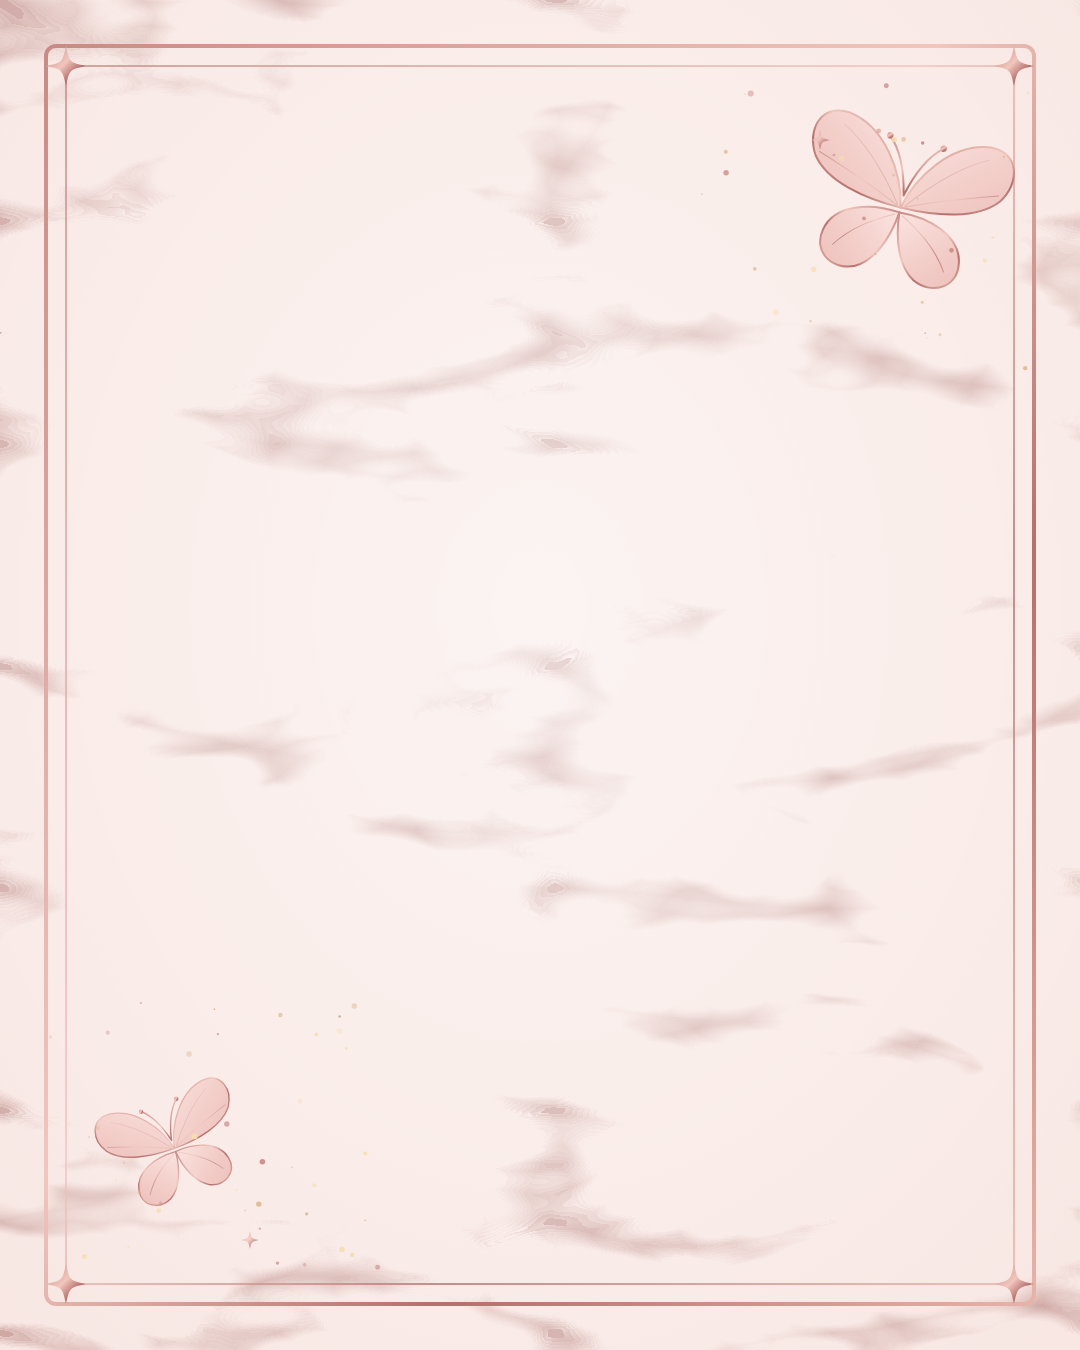
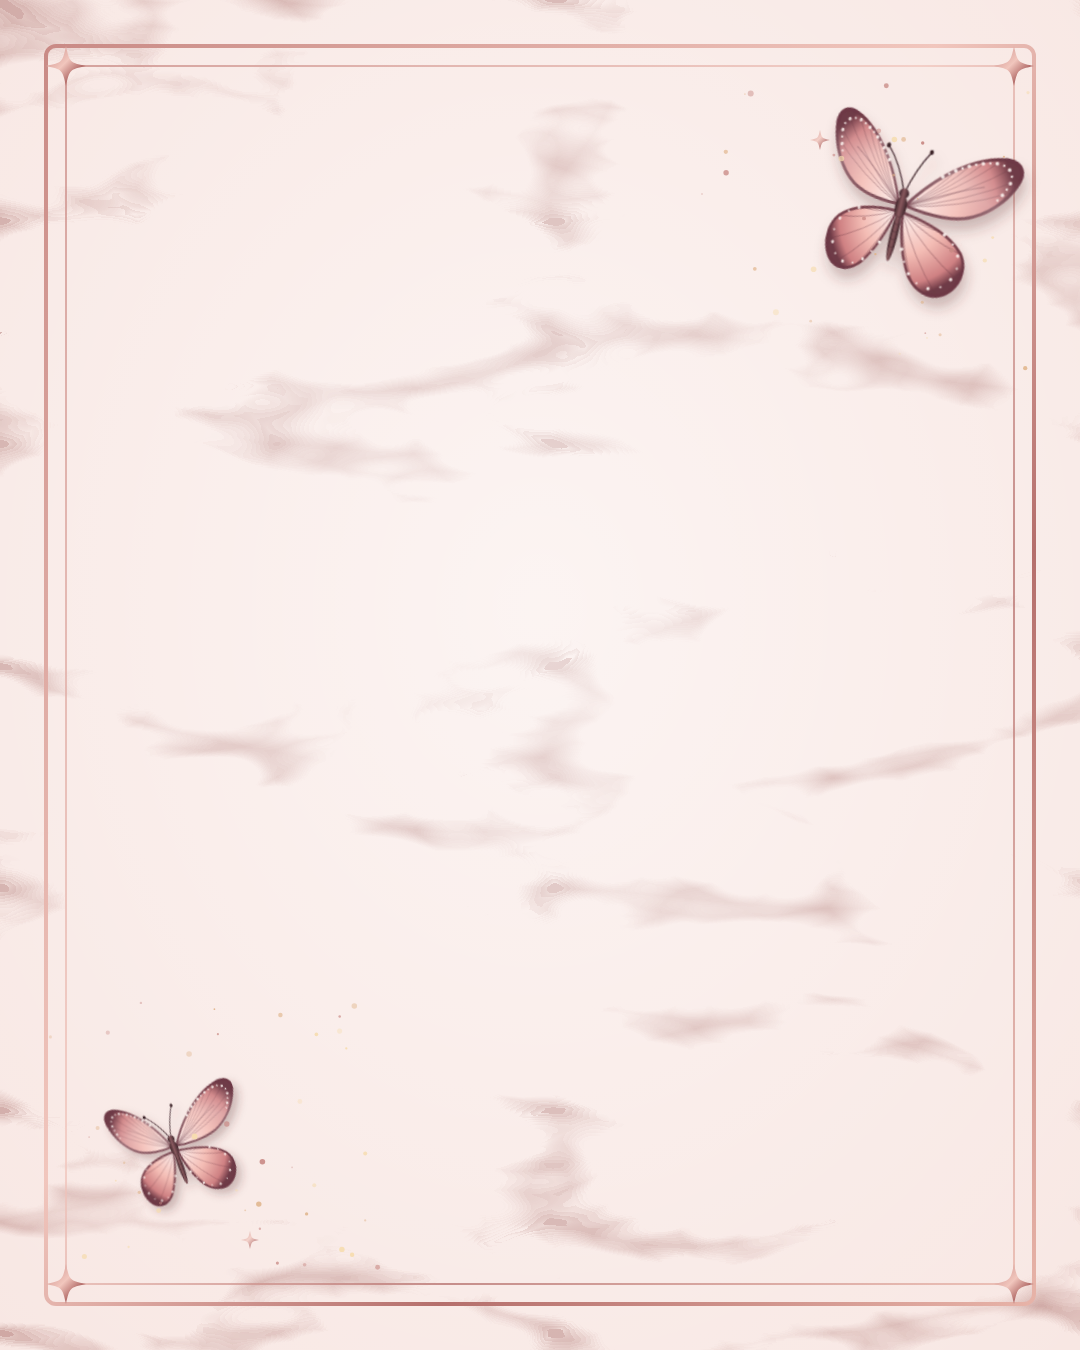
Fundos 1 a 5: borboletas mais realistas
Claude-Session: https://claude.ai/code/session_01PKDZN1sqTcJBwbKHXnbP8m

Changed region(s): [[0.7333, 0.0622, 0.9472, 0.2489], [0.0917, 0.7778, 0.2444, 0.9022]]

diff --git a/fundos-instagram/gerar-fundos.html b/fundos-instagram/gerar-fundos.html
@@ -33,20 +33,72 @@ const DEFS = `
   <feComposite in2="veias" operator="in"/>
 </filter>`;
 
-function borboleta(x, y, s, rot = 0, cor = 'url(#roseGold)', preenchimento = 'url(#asa)') {
-  const asaSup = 'M0,-2 C6,-30 28,-62 58,-66 C82,-68 88,-44 76,-26 C62,-8 30,-2 0,-2 Z';
-  const asaInf = 'M0,2 C24,0 52,8 56,30 C60,50 40,60 24,52 C10,44 2,24 0,2 Z';
-  const veias = 'M3,-4 C20,-26 40,-46 60,-56 M3,-3 C26,-14 50,-22 74,-30 M3,4 C18,12 34,22 46,40';
-  const lado = (esp) => `<g transform="scale(${esp},1)">
-      <path d="${asaSup}" fill="${preenchimento}" stroke="${cor}" stroke-width="1.6"/>
-      <path d="${asaInf}" fill="${preenchimento}" stroke="${cor}" stroke-width="1.6"/>
-      <path d="${veias}" fill="none" stroke="${cor}" stroke-width=".8" opacity=".8"/></g>`;
-  return `<g transform="translate(${x} ${y}) rotate(${rot}) scale(${s})">
-    ${lado(1)}${lado(-1)}
-    <path d="M0,-12 L0,26" stroke="${cor}" stroke-width="4" stroke-linecap="round"/>
-    <path d="M0,-12 C-5,-34 -13,-48 -22,-56 M0,-12 C5,-34 13,-48 22,-56" fill="none" stroke="${cor}" stroke-width="1.6" stroke-linecap="round"/>
-    <circle cx="-22" cy="-56" r="2.6" fill="${cor}"/><circle cx="22" cy="-56" r="2.6" fill="${cor}"/>
-  </g>`;
+// Borboleta realista: asas com degradê, nervuras, borda escura com pintas, corpo com volume.
+const ASA_SUP = 'M2,-6 C20,-40 60,-92 112,-104 C132,-108 144,-96 139,-78 C132,-50 110,-24 84,-12 C60,-2 26,-2 2,-6 Z';
+const ASA_INF = 'M2,0 C30,2 70,8 92,30 C108,48 104,76 86,90 C70,102 48,96 34,80 C20,62 8,32 2,0 Z';
+const amostrar = (d, n, de = 0, ate = 1) => {
+  const ns = 'http://www.w3.org/2000/svg';
+  const t = document.createElementNS(ns, 'svg'); const p = document.createElementNS(ns, 'path');
+  p.setAttribute('d', d); t.appendChild(p); document.body.appendChild(t);
+  const L = p.getTotalLength(), pts = [];
+  for (let i = 0; i < n; i++) { const q = p.getPointAtLength(L * (de + (ate - de) * (i + .5) / n)); pts.push([q.x, q.y]); }
+  t.remove(); return pts;
+};
+const PINTAS_SUP = amostrar(ASA_SUP, 16, 0.18, 0.62);
+const PINTAS_INF = amostrar(ASA_INF, 11, 0.2, 0.85);
+const NERV_SUP = amostrar(ASA_SUP, 7, 0.22, 0.6);
+const NERV_INF = amostrar(ASA_INF, 6, 0.15, 0.85);
+const PALETAS = {
+  rose: { claro: '#fff1ee', meio: '#f4bdb5', forte: '#cf8183', borda: '#6e3a46', corpo1: '#8a5a5f', corpo2: '#3b2228', pinta: '#fff6f2' },
+  ouro: { claro: '#fff6dc', meio: '#f3d59a', forte: '#cf9c55', borda: '#5a3a22', corpo1: '#8a6a45', corpo2: '#2e2014', pinta: '#fffbe9' },
+};
+let idBorb = 0;
+function borboleta(x, y, s, rot = 0, cor = '') {
+  const pal = PALETAS[String(cor).includes('ouro') ? 'ouro' : 'rose'];
+  const id = 'b' + (idBorb++);
+  const nerv = (pts, base) => pts.map(([px, py]) => {
+    const cx = (base[0] + px) / 2 - (py - base[1]) * 0.08, cy = (base[1] + py) / 2 + (px - base[0]) * 0.08;
+    return `M${base[0]},${base[1]} Q${cx.toFixed(1)},${cy.toFixed(1)} ${(px * .97).toFixed(1)},${(py * .97).toFixed(1)}`;
+  }).join(' ');
+  const pintas = (pts, r) => pts.map(([px, py], i) => {
+    const k = 0.9; // puxa um pouco para dentro da borda
+    return `<circle cx="${(px * k + 4 * (1 - k)).toFixed(1)}" cy="${(py * k).toFixed(1)}" r="${(r * (i % 2 ? .65 : 1)).toFixed(1)}" fill="${pal.pinta}" opacity=".9"/>`;
+  }).join('');
+  const asas = `
+    <path d="${ASA_INF}" fill="url(#${id}gi)"/>
+    <path d="${nerv(NERV_INF, [4, 2])}" fill="none" stroke="${pal.borda}" stroke-width="1.1" opacity=".55"/>
+    <path d="${ASA_INF}" fill="none" stroke="${pal.borda}" stroke-width="7" opacity=".9" clip-path="url(#${id}ci)"/>
+    ${pintas(PINTAS_INF, 2.2)}
+    <path d="${ASA_SUP}" fill="url(#${id}gs)"/>
+    <path d="${nerv(NERV_SUP, [4, -6])}" fill="none" stroke="${pal.borda}" stroke-width="1.1" opacity=".55"/>
+    <path d="M10,-10 C40,-30 70,-48 96,-60" fill="none" stroke="${pal.borda}" stroke-width="1.4" opacity=".5"/>
+    <path d="${ASA_SUP}" fill="none" stroke="${pal.borda}" stroke-width="8" opacity=".9" clip-path="url(#${id}cs)"/>
+    ${pintas(PINTAS_SUP, 2.4)}
+    <path d="${ASA_SUP}" fill="url(#${id}brilho)"/>`;
+  return `<defs>
+      <radialGradient id="${id}gs" gradientUnits="userSpaceOnUse" cx="8" cy="-8" r="140">
+        <stop offset="0" stop-color="${pal.claro}"/><stop offset=".45" stop-color="${pal.meio}"/>
+        <stop offset=".82" stop-color="${pal.forte}"/><stop offset="1" stop-color="${pal.borda}"/></radialGradient>
+      <radialGradient id="${id}gi" gradientUnits="userSpaceOnUse" cx="6" cy="4" r="105">
+        <stop offset="0" stop-color="${pal.claro}"/><stop offset=".5" stop-color="${pal.meio}"/>
+        <stop offset=".85" stop-color="${pal.forte}"/><stop offset="1" stop-color="${pal.borda}"/></radialGradient>
+      <linearGradient id="${id}brilho" x1="0" y1="1" x2=".6" y2="0">
+        <stop offset="0" stop-color="#fff" stop-opacity="0"/><stop offset=".6" stop-color="#fff" stop-opacity=".22"/><stop offset="1" stop-color="#fff" stop-opacity="0"/></linearGradient>
+      <linearGradient id="${id}corpo" x1="0" y1="0" x2="1" y2="0">
+        <stop offset="0" stop-color="${pal.corpo2}"/><stop offset=".45" stop-color="${pal.corpo1}"/><stop offset="1" stop-color="${pal.corpo2}"/></linearGradient>
+      <clipPath id="${id}cs"><path d="${ASA_SUP}"/></clipPath><clipPath id="${id}ci"><path d="${ASA_INF}"/></clipPath>
+      <filter id="${id}sb" x="-30%" y="-30%" width="160%" height="160%"><feDropShadow dx="6" dy="12" stdDeviation="8" flood-color="#5a2a30" flood-opacity=".28"/></filter>
+    </defs>
+    <g transform="translate(${x} ${y}) rotate(${rot}) scale(${s * 0.62})" filter="url(#${id}sb)">
+      <g transform="scale(-0.8,1) rotate(-4)">${asas}</g>
+      <g transform="rotate(3)">${asas}</g>
+      <path d="M0,-22 C-10,-48 -22,-66 -34,-78 M0,-22 C6,-50 14,-68 22,-82" fill="none" stroke="${pal.corpo2}" stroke-width="1.6" stroke-linecap="round"/>
+      <ellipse cx="-34" cy="-78" rx="2.6" ry="3.4" fill="${pal.corpo2}"/><ellipse cx="22" cy="-82" rx="2.6" ry="3.4" fill="${pal.corpo2}"/>
+      <ellipse cx="0" cy="34" rx="5" ry="34" fill="url(#${id}corpo)"/>
+      <ellipse cx="0" cy="-4" rx="7.5" ry="15" fill="url(#${id}corpo)"/>
+      <circle cx="0" cy="-22" r="6.5" fill="url(#${id}corpo)"/>
+      ${[8, 18, 28, 38, 48].map((yy) => `<path d="M-4.6,${yy} Q0,${yy + 2.5} 4.6,${yy}" fill="none" stroke="${pal.corpo2}" stroke-width=".8" opacity=".6"/>`).join('')}
+    </g>`;
 }
 function brilho(x, y, r, cor = 'url(#roseGold)', op = 1) {
   const k = r * 0.18;
